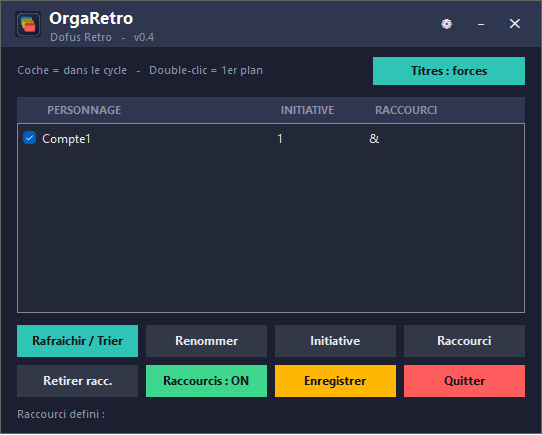
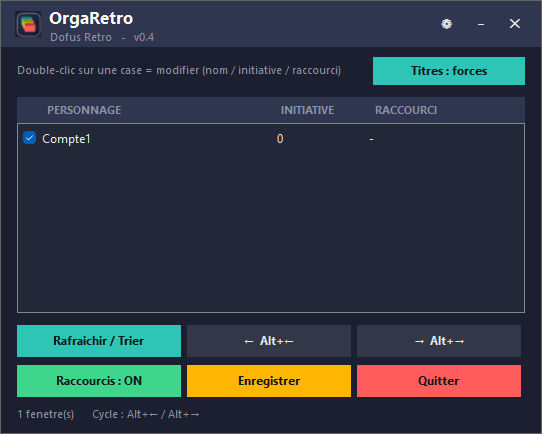
OrgaRetro V0.4

diff --git a/README.md b/README.md
@@ -47,20 +47,18 @@ OrgaRetro/
 
 1. Ouvre tes fenêtres Dofus Retro.
 2. Clique sur **Rafraîchir / Trier**.
-3. Pour chaque personnage :
-   - **Renommer** — donne-lui un nom lisible
+3. Pour chaque personnage, **double-clic sur une case** pour la modifier :
+   - **Nom** (1ʳᵉ colonne) — donne-lui un nom lisible
    - **Initiative** — la liste se trie automatiquement (la plus haute en premier)
-   - **Raccourci** — clique le bouton puis **appuie sur la touche** (détection auto)
+   - **Raccourci** — puis **appuie sur la touche** (détection auto). Clic droit = retirer.
    - **Case cochée** — incluse dans le cycle
-4. **Double-clic** sur une ligne = amener cette fenêtre au premier plan.
-5. **Enregistrer** pour conserver ta configuration.
+4. **Enregistrer** pour conserver ta configuration.
 
-### Raccourcis par défaut
+### Raccourcis de navigation
 
-| Action | Touche |
-|--------|--------|
-| Fenêtre précédente | `Alt + ←` |
-| Fenêtre suivante | `Alt + →` |
+Les boutons **⬅ / ➡** en bas assignent les touches pour passer à la fenêtre
+**précédente / suivante** (clique le bouton puis appuie sur la touche voulue).
+Par défaut : `Alt + ←` / `Alt + →`.
 
 Le bouton **Raccourcis : ON/OFF** coupe ou réactive tous les raccourcis (pratique
 pour taper normalement en jeu).